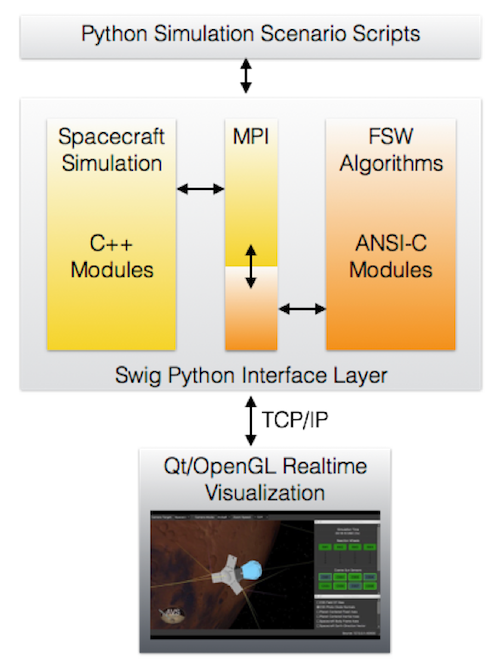
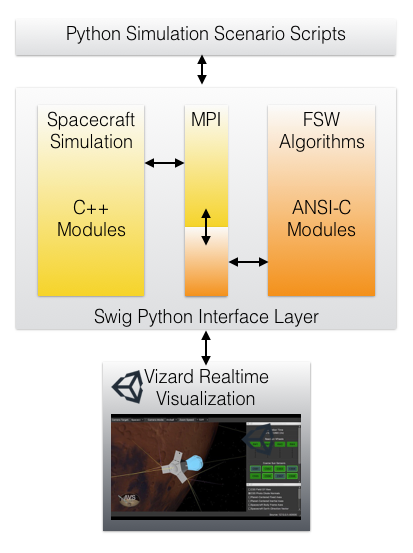
updated files to BSK v0.6.0 release
Former-commit-id: 6169142d830482abae2473373815f631744c4ab5
Former-commit-id: df3be39fa4937dc41b417252c3421abd1baafedd

diff --git a/setup.py b/setup.py
@@ -154,7 +154,7 @@ class BuildDocsCommand(Command):
 
 setup(
     name='Basilisk',
-    version='0.5.1',
+    version='0.6.0',
     description="Astrodynamic Simulation Library",
     packages=['Basilisk', ],
     license=open('./LICENSE').read(),

diff --git a/docs/2-1-bskReleaseNotes.md b/docs/2-1-bskReleaseNotes.md
@@ -7,12 +7,12 @@ We are very excited by the great capabilities that this software already has, an
 * ability to integrate custom Basilisk modules that are kept outside of the core Basilisk folder
 * GPU based methods to evaluate solar radiation pressure forces and torques
 * atmospheric drag evaluation using multi-faceted spacecraft model
-* New Unity-based Basilisk visualization tool called Vizard
+* Updates to the Vizard Unity-based Basilisk visualization tool
 * Ability to playback BSK simulation file within Vizard
 * Python 3 support
 * live plotting capability during a BSK run
 
-##  Upcoming Version 0.X.X
+##  Upcoming Version 0.6.0
 <ul>
     <li>
         Added a new `vizInterface` module.  This version is able to record a BSK simulation which can then be played back in the BSK Vizard visualization program.  Vizard must be downloaded separately.  To enable this capabilty, see the scenario tutorial files.  `scenariosBasicOrbit.py` discusses how to enable this.  The python support macro `vizSupport.enableUnityVisualization()` is commented out by default.  Further, to compile `vizInterface` the CMake flags `USE_PROTOBUFFERS` and `USE_ZEROMQ` must be turned on.  A new MD FAQ support file discusses the Cmake options.

diff --git a/docs/2-2-bskKnownIssues.md b/docs/2-2-bskKnownIssues.md
@@ -1,7 +1,7 @@
 # Basilisk Known Issues {#bskKnownIssues}
 
 
-## Version 0.X.X
+## Version 0.6.0
    <ul>
         <li>WINDOWS ONLY: Windows users cannot currently run pytest directly on Basilisk `src/` directory (there will be non-resolved python path issues that will result in erroneous ImportErrors). Instead, to verify proper installation of Basilisk, windows users must enter the specific subdirectory they are attempting to test, only then to run pytest. This should result in appropriate behavior.  Right now there is no known solution to this issue.
     </li>
